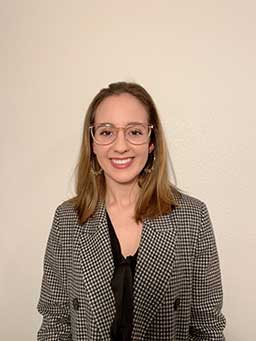
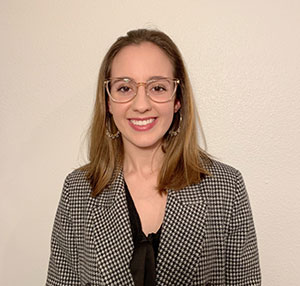
resized images

Changed region(s): [[0.125, 0.0839, 0.9062, 1.0]]

diff --git a/_site/index.html b/_site/index.html
@@ -856,7 +856,7 @@
                                                 <circle class="circle-chart-circle" stroke-width="1" stroke-dasharray="33,100" stroke-linecap="round" fill="none" cx="16.91549431" cy="16.91549431" r="15.91549431" />
                                             </svg>
                                             <img class="is-sketch" src="assets/images/team/joshua.svg" alt="">
-                                            <img class="is-real" src="assets/images/team/windsor.jpg" alt="">
+                                            <img class="is-real" src="assets/images/team/windsor2.jpg" alt="">
                                         </div>
                                         <div class="member-info">
                                             <h4 class="title is-light is-6 is-tight">Windsor Niermeyer</h4>
@@ -977,7 +977,7 @@
                                                 <circle class="circle-chart-circle" stroke-width="1" stroke-dasharray="33,100" stroke-linecap="round" fill="none" cx="16.91549431" cy="16.91549431" r="15.91549431" />
                                             </svg>
                                             <img class="is-sketch" src="assets/images/team/mike.svg" alt="">
-                                            <img class="is-real" src="assets/images/team/andrew.jpg" alt="">
+                                            <img class="is-real" src="assets/images/team/andrew2.jpg" alt="">
                                         </div>
                                         <div class="member-info">
                                             <h4 class="title is-light is-6 is-tight">Andrew Bailard</h4>
